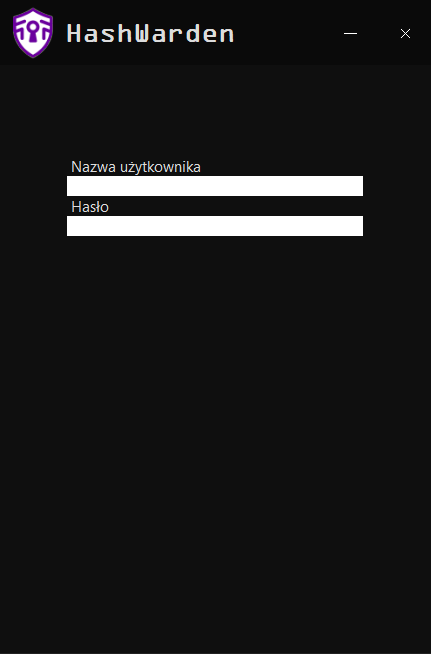
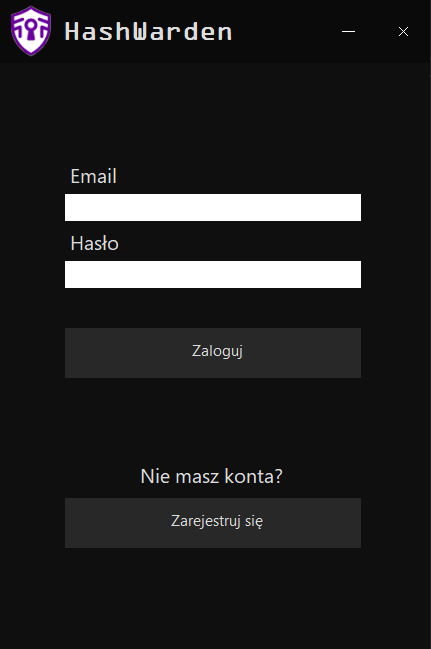
Added RegisterForm and a corresponding view image to readme

diff --git a/RegisterForm.Designer.cs b/RegisterForm.Designer.cs
@@ -1,6 +1,6 @@
 namespace HashWarden
 {
-    partial class LoginForm
+    partial class RegisterForm
     {
         /// <summary>
         /// Required designer variable.
@@ -29,7 +29,7 @@
         private void InitializeComponent()
         {
             components = new System.ComponentModel.Container();
-            System.ComponentModel.ComponentResourceManager resources = new System.ComponentModel.ComponentResourceManager(typeof(LoginForm));
+            System.ComponentModel.ComponentResourceManager resources = new System.ComponentModel.ComponentResourceManager(typeof(RegisterForm));
             panel1 = new Panel();
             tableLayoutPanel1 = new TableLayoutPanel();
             panel2 = new Panel();
@@ -47,6 +47,8 @@
             MinimalizeButton = new Button();
             HeaderImages = new ImageList(components);
             ExitButton = new Button();
+            textBox3 = new TextBox();
+            label3 = new Label();
             panel1.SuspendLayout();
             tableLayoutPanel1.SuspendLayout();
             panel2.SuspendLayout();
@@ -76,8 +78,8 @@
             tableLayoutPanel1.Location = new Point(0, 65);
             tableLayoutPanel1.Name = "tableLayoutPanel1";
             tableLayoutPanel1.RowCount = 3;
-            tableLayoutPanel1.RowStyles.Add(new RowStyle(SizeType.Percent, 15F));
-            tableLayoutPanel1.RowStyles.Add(new RowStyle(SizeType.Percent, 70F));
+            tableLayoutPanel1.RowStyles.Add(new RowStyle(SizeType.Percent, 10F));
+            tableLayoutPanel1.RowStyles.Add(new RowStyle(SizeType.Percent, 75F));
             tableLayoutPanel1.RowStyles.Add(new RowStyle(SizeType.Percent, 15F));
             tableLayoutPanel1.Size = new Size(432, 588);
             tableLayoutPanel1.TabIndex = 4;
@@ -88,14 +90,16 @@
             panel2.Controls.Add(label1);
             panel2.Controls.Add(LogoutButton);
             panel2.Controls.Add(label2);
+            panel2.Controls.Add(textBox3);
+            panel2.Controls.Add(label3);
             panel2.Controls.Add(textBox2);
             panel2.Controls.Add(PasswordLabel);
             panel2.Controls.Add(textBox1);
             panel2.Controls.Add(UsernameLabel);
             panel2.Dock = DockStyle.Fill;
-            panel2.Location = new Point(67, 91);
+            panel2.Location = new Point(67, 61);
             panel2.Name = "panel2";
-            panel2.Size = new Size(296, 405);
+            panel2.Size = new Size(296, 435);
             panel2.TabIndex = 0;
             // 
             // button1
@@ -108,12 +112,12 @@
             button1.ForeColor = Color.Gainsboro;
             button1.ImageAlign = ContentAlignment.MiddleLeft;
             button1.ImageIndex = 2;
-            button1.Location = new Point(0, 344);
+            button1.Location = new Point(0, 371);
             button1.Name = "button1";
             button1.Padding = new Padding(10, 0, 0, 5);
             button1.Size = new Size(296, 50);
             button1.TabIndex = 7;
-            button1.Text = "Zarejestruj się";
+            button1.Text = "Zaloguj się";
             button1.TextImageRelation = TextImageRelation.ImageBeforeText;
             button1.UseVisualStyleBackColor = false;
             // 
@@ -122,12 +126,12 @@
             label1.Dock = DockStyle.Top;
             label1.Font = new Font("Segoe UI", 12F);
             label1.ForeColor = Color.Gainsboro;
-            label1.Location = new Point(0, 224);
+            label1.Location = new Point(0, 291);
             label1.Name = "label1";
             label1.Padding = new Padding(0, 0, 0, 10);
-            label1.Size = new Size(296, 120);
+            label1.Size = new Size(296, 80);
             label1.TabIndex = 6;
-            label1.Text = "Nie masz konta?";
+            label1.Text = "Masz już konto?";
             label1.TextAlign = ContentAlignment.BottomCenter;
             // 
             // LogoutButton
@@ -140,12 +144,12 @@
             LogoutButton.ForeColor = Color.Gainsboro;
             LogoutButton.ImageAlign = ContentAlignment.MiddleLeft;
             LogoutButton.ImageIndex = 2;
-            LogoutButton.Location = new Point(0, 174);
+            LogoutButton.Location = new Point(0, 241);
             LogoutButton.Name = "LogoutButton";
             LogoutButton.Padding = new Padding(10, 0, 0, 5);
             LogoutButton.Size = new Size(296, 50);
             LogoutButton.TabIndex = 4;
-            LogoutButton.Text = "Zaloguj";
+            LogoutButton.Text = "Zarejestruj";
             LogoutButton.TextImageRelation = TextImageRelation.ImageBeforeText;
             LogoutButton.UseVisualStyleBackColor = false;
             // 
@@ -153,7 +157,7 @@
             // 
             label2.Dock = DockStyle.Top;
             label2.ForeColor = Color.Gainsboro;
-            label2.Location = new Point(0, 134);
+            label2.Location = new Point(0, 201);
             label2.Name = "label2";
             label2.Size = new Size(296, 40);
             label2.TabIndex = 8;
@@ -260,7 +264,7 @@
             MinimalizeButton.Size = new Size(55, 65);
             MinimalizeButton.TabIndex = 2;
             MinimalizeButton.UseVisualStyleBackColor = false;
-            MinimalizeButton.Click += this.MinimalizeButton_Click;
+            MinimalizeButton.Click += MinimalizeButton_Click;
             // 
             // HeaderImages
             // 
@@ -284,9 +288,32 @@
             ExitButton.Size = new Size(55, 65);
             ExitButton.TabIndex = 0;
             ExitButton.UseVisualStyleBackColor = false;
-            ExitButton.Click += this.ExitButton_Click;
+            ExitButton.Click += ExitButton_Click;
             // 
-            // LoginForm
+            // textBox3
+            // 
+            textBox3.BorderStyle = BorderStyle.None;
+            textBox3.Dock = DockStyle.Top;
+            textBox3.Font = new Font("Segoe UI", 12F);
+            textBox3.ImeMode = ImeMode.NoControl;
+            textBox3.Location = new Point(0, 174);
+            textBox3.Name = "textBox3";
+            textBox3.Size = new Size(296, 27);
+            textBox3.TabIndex = 10;
+            // 
+            // label3
+            // 
+            label3.Dock = DockStyle.Top;
+            label3.Font = new Font("Segoe UI", 12F);
+            label3.ForeColor = Color.Gainsboro;
+            label3.Location = new Point(0, 134);
+            label3.Name = "label3";
+            label3.Size = new Size(296, 40);
+            label3.TabIndex = 9;
+            label3.Text = "Powtórz hasło";
+            label3.TextAlign = ContentAlignment.MiddleLeft;
+            // 
+            // RegisterForm
             // 
             AutoScaleDimensions = new SizeF(8F, 20F);
             AutoScaleMode = AutoScaleMode.Font;
@@ -296,8 +323,8 @@
             Icon = (Icon)resources.GetObject("$this.Icon");
             MaximumSize = new Size(450, 700);
             MinimumSize = new Size(450, 700);
-            Name = "LoginForm";
-            Text = "LoginForm";
+            Name = "RegisterForm";
+            Text = "RegisterForm";
             panel1.ResumeLayout(false);
             tableLayoutPanel1.ResumeLayout(false);
             panel2.ResumeLayout(false);
@@ -325,5 +352,7 @@
         private Button button1;
         private Label label1;
         private Label label2;
+        private TextBox textBox3;
+        private Label label3;
     }
 }

diff --git a/RegisterForm.cs b/RegisterForm.cs
@@ -1,0 +1,30 @@
+using System;
+using System.Collections.Generic;
+using System.ComponentModel;
+using System.Data;
+using System.Drawing;
+using System.Linq;
+using System.Text;
+using System.Threading.Tasks;
+using System.Windows.Forms;
+
+namespace HashWarden
+{
+    public partial class RegisterForm : Form
+    {
+        public RegisterForm()
+        {
+            InitializeComponent();
+        }
+
+        private void ExitButton_Click(object sender, EventArgs e)
+        {
+            Application.Exit();
+        }
+
+        private void MinimalizeButton_Click(object sender, EventArgs e)
+        {
+            this.WindowState = FormWindowState.Minimized;
+        }
+    }
+}

diff --git a/readme.md b/readme.md
@@ -49,6 +49,8 @@ Baza danych składa się z trzech głównych tabel: `Users`, `Folders` i `Passwo
 
 ### Logowanie
 ![Logowanie](ViewImages/LoginView.png)
+### Rejestracja
+![Logowanie](ViewImages/RegisterView.png)
 ### Główny panel
 ![Główny panel](ViewImages/MainView.png)
 ### Zapisane hasło
